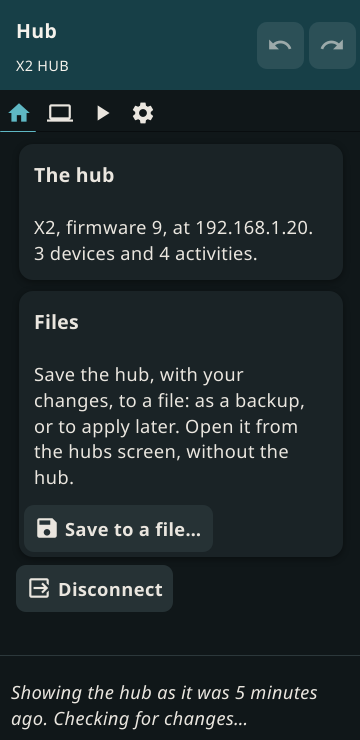
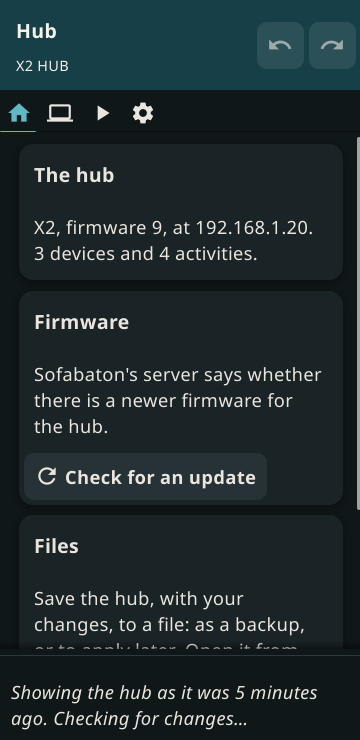
Hub firmware: checked with Sofabaton's server and installed from the hub tab, as the app does

diff --git a/internal/ui/firmware.go b/internal/ui/firmware.go
@@ -1,0 +1,108 @@
+package ui
+
+import (
+	"context"
+	"time"
+
+	"fyne.io/fyne/v2"
+	"fyne.io/fyne/v2/container"
+	"fyne.io/fyne/v2/dialog"
+	"fyne.io/fyne/v2/theme"
+	"fyne.io/fyne/v2/widget"
+
+	"github.com/brunoga/armrest/internal/i18n"
+	"github.com/brunoga/sofabaton/irsource"
+)
+
+// firmwareTimeout bounds asking Sofabaton's server and downloading an
+// image (a hub's is about 50 KB).
+const firmwareTimeout = time.Minute
+
+// firmwareCard checks the hub's firmware against Sofabaton's server and
+// installs a newer one, as the app does; nil for a file or the demo.
+func (s *browseScreen) firmwareCard() fyne.CanvasObject {
+	a := s.app
+	if a.offline() || s.hub.Demo || a.client == nil {
+		return nil
+	}
+	status := wrapped("")
+	actions := container.NewHBox()
+	var check func()
+	show := func(text string, buttons ...fyne.CanvasObject) {
+		status.SetText(text)
+		actions.Objects = buttons
+		actions.Refresh()
+	}
+	check = func() {
+		key := sofabatonKey()
+		if key == "" {
+			show(i18n.T("Checking for updates asks Sofabaton's server, with the key the settings take for its catalog."))
+			return
+		}
+		info := a.client.Info()
+		show(i18n.T("Checking for an update…"))
+		a.async(func() {
+			ctx, cancel := context.WithTimeout(context.Background(), firmwareTimeout)
+			defer cancel()
+			f, err := a.sofabaton(key).HubFirmware(ctx, info)
+			fyne.Do(func() {
+				switch {
+				case err != nil:
+					show(i18n.T("Checking failed: %v", err), widget.NewButtonWithIcon(i18n.T("Try again"), theme.ViewRefreshIcon(), check))
+				case f == nil:
+					show(i18n.T("Firmware %d is the newest.", info.Firmware))
+				default:
+					install := widget.NewButtonWithIcon(i18n.T("Install…"), theme.DownloadIcon(), func() { s.installFirmware(f) })
+					install.Importance = widget.HighImportance
+					show(i18n.T("Firmware %d is available: %s", f.Version, f.Notes), install)
+				}
+			})
+		})
+	}
+	show(i18n.T("Sofabaton's server says whether there is a newer firmware for the hub."), widget.NewButtonWithIcon(i18n.T("Check for an update"), theme.ViewRefreshIcon(), check))
+	return card(i18n.T("Firmware"), container.NewVBox(status, actions))
+}
+
+// installFirmware downloads the firmware and sends it to the hub, which
+// then restarts: the app goes back to the hubs, to connect again.
+func (s *browseScreen) installFirmware(f *irsource.Firmware) {
+	a := s.app
+	name := hubName(a.hub)
+	dialog.ShowConfirm(i18n.T("Install firmware %d?", f.Version),
+		i18n.T("%s takes about a minute to receive it, then restarts. Keep it powered and this device near it until it is done. Changes you have not applied are kept.", name),
+		func(ok bool) {
+			if !ok {
+				return
+			}
+			bar := widget.NewProgressBar()
+			what := widget.NewLabel(i18n.T("Downloading the firmware…"))
+			wait := dialog.NewCustomWithoutButtons(i18n.T("Updating %s", name), container.NewVBox(what, bar), a.win)
+			wait.Show()
+			a.working = true
+			c, key := a.client, sofabatonKey()
+			a.async(func() {
+				ctx, cancel := context.WithTimeout(context.Background(), firmwareTimeout)
+				image, err := a.sofabaton(key).HubImage(ctx, f)
+				cancel()
+				if err == nil {
+					fyne.Do(func() { what.SetText(i18n.T("Sending it to the hub…")) })
+					err = c.UpdateFirmware(context.Background(), image, func(done, total int) {
+						fyne.Do(func() { bar.SetValue(float64(done) / float64(total)) })
+					})
+				}
+				fyne.Do(func() {
+					wait.Hide()
+					a.working = false
+					if err != nil {
+						dialog.ShowError(err, a.win)
+						return
+					}
+					a.saveEdits(a.hub, a.work)
+					a.Close() // the hub restarts without closing the connection
+					a.showHubs()
+					dialog.ShowInformation(i18n.T("Firmware sent"),
+						i18n.T("%s has the new firmware and is restarting. Connect to it again in a minute or two.", name), a.win)
+				})
+			})
+		}, a.win)
+}

diff --git a/internal/ui/firmware_test.go b/internal/ui/firmware_test.go
@@ -1,0 +1,36 @@
+package ui
+
+import (
+	"strings"
+	"testing"
+
+	"fyne.io/fyne/v2/test"
+
+	"github.com/brunoga/armrest/internal/backend"
+)
+
+// The hub tab checks the hub's firmware with Sofabaton's server and
+// installs a newer one; the app then goes back to the hubs while the hub
+// restarts.
+func TestFirmware(t *testing.T) {
+	u, w := newApp(t, backend.Hub{Name: "Lounge", Model: "X2", Firmware: 9, Addr: lounge})
+	u.sofabaton = func(key string) sofabatonCatalog { return fakeCatalog{key} }
+	test.Tap(button(t, w, "Lounge (X2, 192.168.1.20)"))
+	hubAction(t, u, "Check for an update")
+	if got := texts(w); !strings.Contains(got, "with the key the settings take") {
+		t.Fatalf("checked without a key:\n%s", got)
+	}
+	prefs().SetString(sofabatonKeyPref, fakeKey)
+	t.Cleanup(func() { prefs().SetString(sofabatonKeyPref, "") })
+	u.browse.tabs.SelectIndex(hubTab)
+	u.showBrowse(u.hub).tabs.SelectIndex(hubTab)
+	test.Tap(button(t, w, "Check for an update"))
+	if got := texts(w); !strings.Contains(got, "Firmware 10 is available: Fixes bugs") {
+		t.Fatalf("no update offered:\n%s", got)
+	}
+	test.Tap(button(t, w, "Install…"))
+	test.Tap(button(t, w, "Yes"))
+	if u.client != nil || !strings.Contains(texts(w), "has the new firmware and is restarting") {
+		t.Fatalf("not installed:\n%s", texts(w))
+	}
+}

diff --git a/internal/ui/settings_test.go b/internal/ui/settings_test.go
@@ -1,6 +1,7 @@
 package ui
 
 import (
+	"bytes"
 	"context"
 	"errors"
 	"fmt"
@@ -13,6 +14,7 @@ import (
 
 	"github.com/brunoga/armrest/internal/backend"
 	"github.com/brunoga/sofabaton/irsource"
+	"github.com/brunoga/sofabaton/record"
 )
 
 // fakeKey stands in for the catalog's key.
@@ -188,4 +190,25 @@ func TestAutoConnect(t *testing.T) {
 	if u.client == nil || u.hub.Addr != lounge {
 		t.Fatal("not connected to the last hub on starting")
 	}
+}
+
+// fakeFirmware is the firmware the fake catalog offers a hub on a
+// lower one; fakeImage its image.
+var (
+	fakeFirmware = &irsource.Firmware{Product: "x2", Version: 10, Notes: "Fixes bugs", URLs: []string{"https://x/hub.bin"}}
+	fakeImage    = bytes.Repeat([]byte("image"), 1000)
+)
+
+func (c fakeCatalog) HubFirmware(_ context.Context, info *record.HubInfo) (*irsource.Firmware, error) {
+	if c.key != fakeKey {
+		return nil, irsource.ErrSofabatonKey
+	}
+	if int(info.Firmware) >= fakeFirmware.Version {
+		return nil, nil
+	}
+	return fakeFirmware, nil
+}
+
+func (c fakeCatalog) HubImage(context.Context, *irsource.Firmware) ([]byte, error) {
+	return fakeImage, nil
 }

diff --git a/internal/ui/settings.go b/internal/ui/settings.go
@@ -15,6 +15,7 @@ import (
 	"github.com/brunoga/armrest/internal/backend"
 	"github.com/brunoga/armrest/internal/i18n"
 	"github.com/brunoga/sofabaton/irsource"
+	"github.com/brunoga/sofabaton/record"
 )
 
 // The settings' preferences.
@@ -56,6 +57,8 @@ type sofabatonCatalog interface {
 	Models(context.Context, irsource.SofabatonBrand) ([]irsource.Entry, error)
 	Bluetooth(context.Context) ([]irsource.Entry, error)
 	Fetch(context.Context, irsource.Entry) ([]byte, error)
+	HubFirmware(context.Context, *record.HubInfo) (*irsource.Firmware, error)
+	HubImage(context.Context, *irsource.Firmware) ([]byte, error)
 }
 
 func realSofabaton(key string) sofabatonCatalog { return irsource.SofabatonDB{Key: key} }

diff --git a/internal/ui/browse.go b/internal/ui/browse.go
@@ -461,10 +461,12 @@ func (s *browseScreen) hubContent(h backend.Hub) fyne.CanvasObject {
 		files.Add(container.NewHBox(restore))
 		leave = widget.NewButtonWithIcon(i18n.T("Close the file"), theme.LogoutIcon(), s.app.closeFile)
 	}
-	return scrolled(container.NewVBox(
-		card(i18n.T("The hub"), s.hubInfo),
-		card(i18n.T("Files"), files),
-		container.NewHBox(leave)))
+	parts := []fyne.CanvasObject{card(i18n.T("The hub"), s.hubInfo)}
+	if fw := s.firmwareCard(); fw != nil {
+		parts = append(parts, fw)
+	}
+	parts = append(parts, card(i18n.T("Files"), files), container.NewHBox(leave))
+	return scrolled(container.NewVBox(parts...))
 }
 
 // showHub says what the hub is, on its tab.

diff --git a/PLAN.md b/PLAN.md
@@ -168,7 +168,13 @@ cmd/armrest/         the app (all targets)
    done.
 7. **Backup and restore:** dump to a file, restore
    from a file with the plan first.
-8. **Settings and diagnostics:** the frame log (as `-v`) to attach to bug
+8. **Firmware:** the hub tab asks Sofabaton's server, as the app does,
+   whether there is a newer hub firmware, and installs it (downloaded,
+   sent with its MD5, then the hub restarts and is connected to again).
+   No newer hub firmware has been out to install yet. The remote's
+   update goes from the phone to the remote over Bluetooth (SiFli's
+   procedure): being worked out.
+9. **Settings and diagnostics:** the frame log (as `-v`) to attach to bug
    reports, the version, licenses.
 
 Shared widgets: the step editor, the remote's key layout, the icon and
